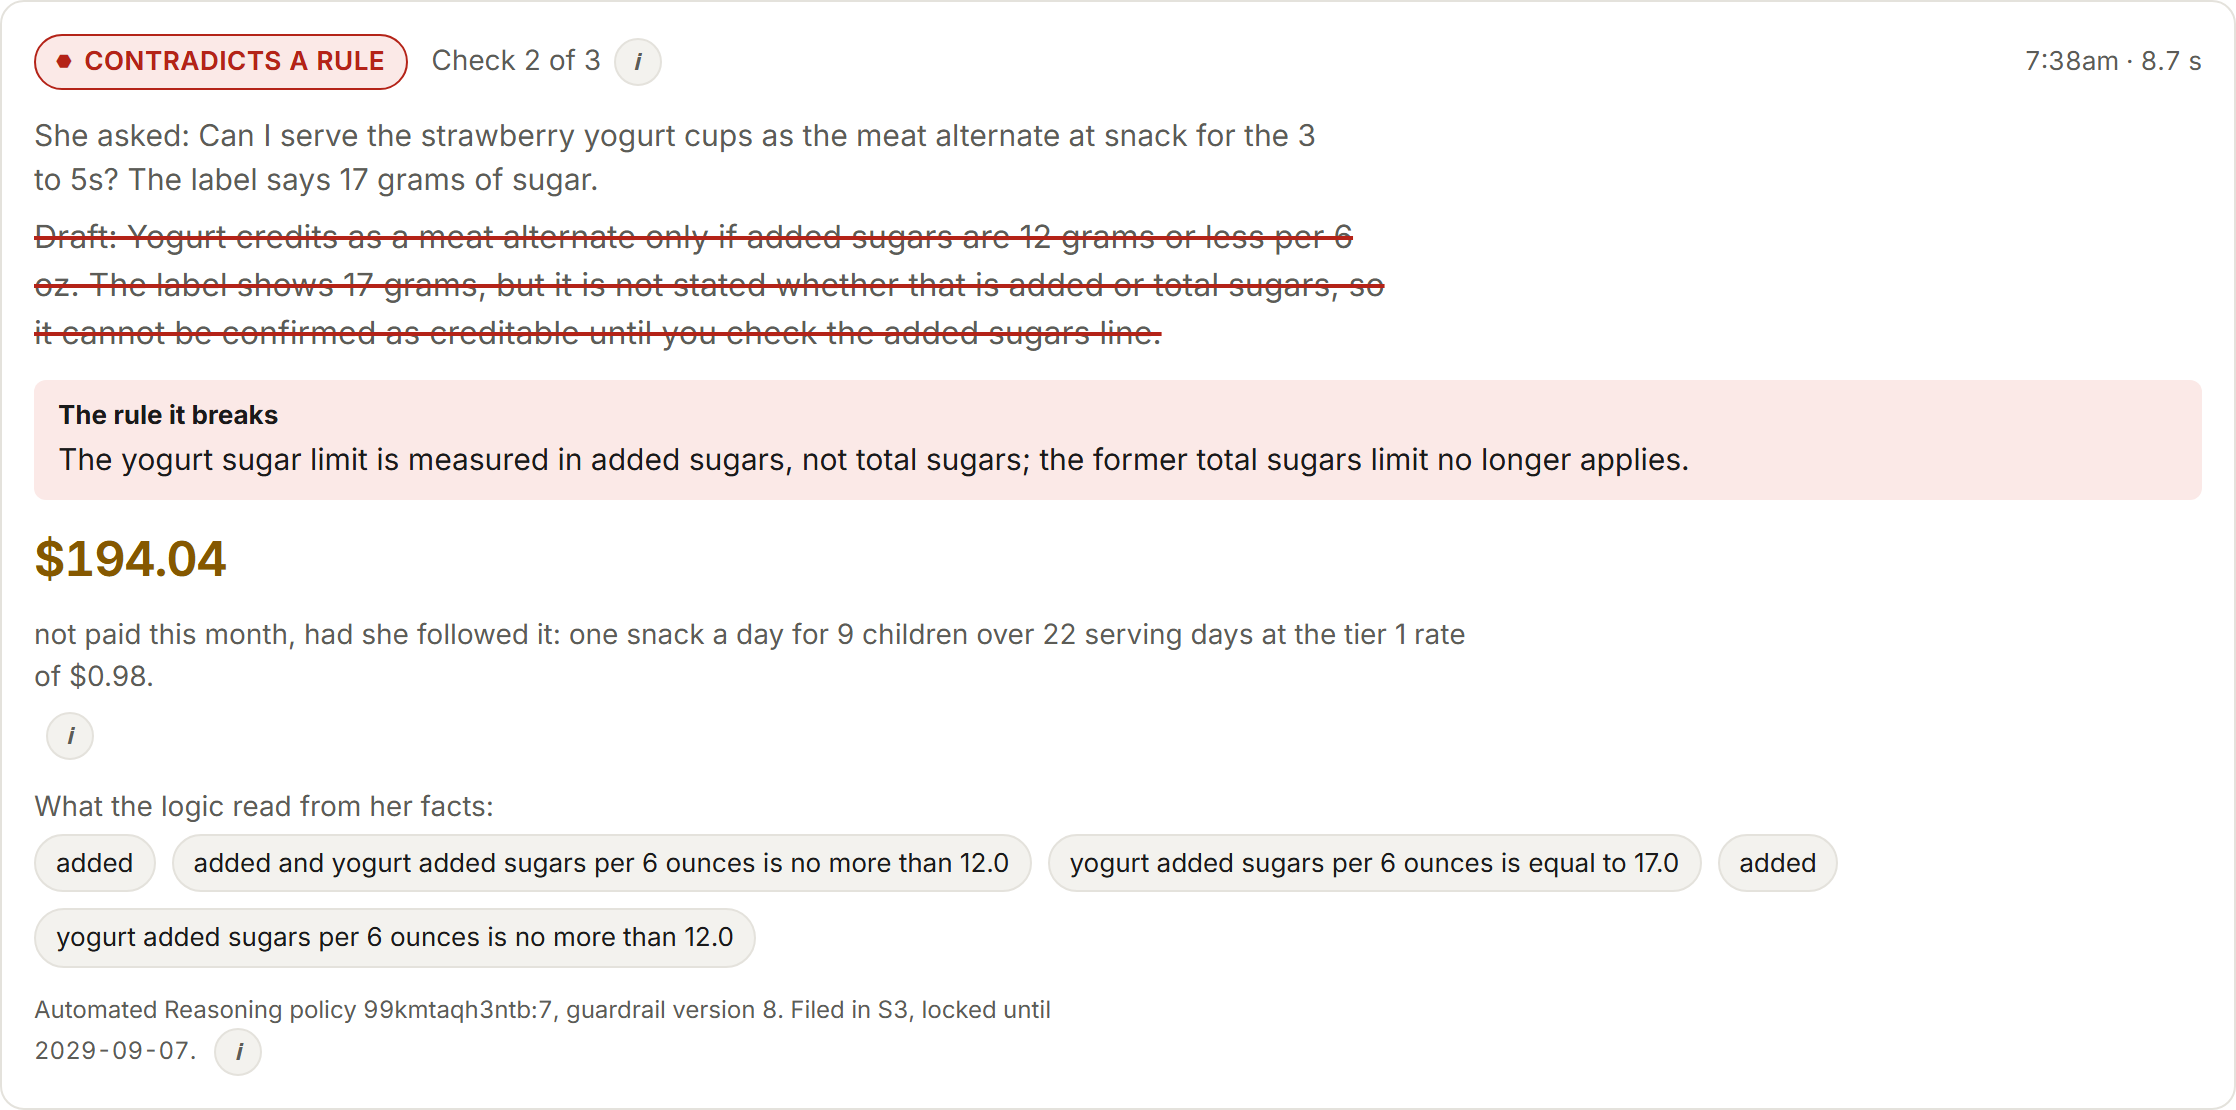
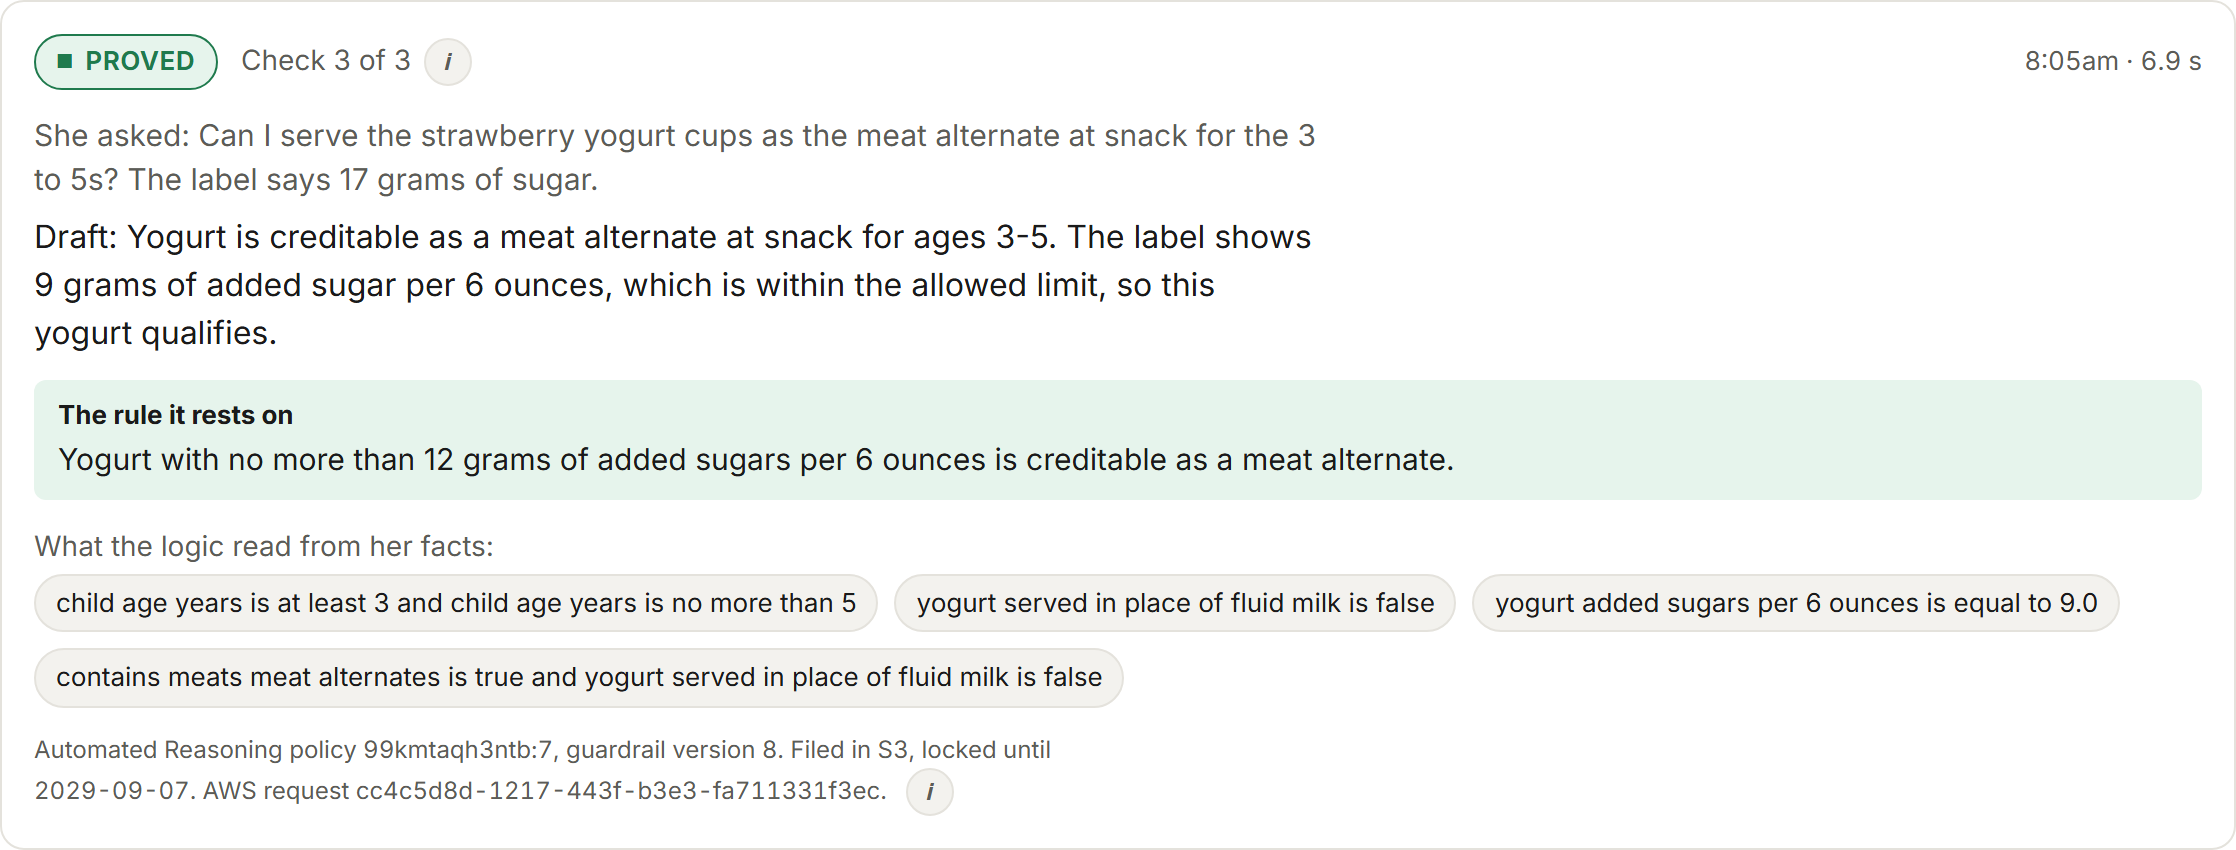
Name the policy version on undecided receipts, re-record one scene at a time, and put the contradiction on the cover
An undecided finding lists no rules and so carried no policy ARN, and the receipt printed
"unversioned" under a check that ran against policy version 7. The version now comes from the
deployed configuration when the finding does not name it. The recorder takes a list of scenes to
re-record and reuses the rest, rebuilds the conversation a single follow-up scene depends on, and
counts a timed-out take as bad instead of crashing. The gallery leads with the contradiction card
and adds the September answer with its remembered number marked in red.

Changed region(s): [[0.0, 0.0306, 0.9875, 0.9482], [0.8949, 0.0306, 0.9875, 0.0918]]

diff --git a/tools/make_video.py b/tools/make_video.py
@@ -56,13 +56,15 @@ def polly(text: str, out: Path) -> float:
     return float(d)
 
 
-def main(base: str, out: str) -> int:
+def main(base: str, out: str, only: set[str] | None = None) -> int:
     outdir = Path(out)
-    if outdir.exists():
+    # `only` names scenes to re-record; every other scene reuses its narration and clip from the last
+    # run, so one unlucky take does not cost a full pass against a non-deterministic agent.
+    if outdir.exists() and not only:
         shutil.rmtree(outdir)
-    (outdir / "raw").mkdir(parents=True)
+    (outdir / "raw").mkdir(parents=True, exist_ok=True)
     cards = outdir / "cards"
-    cards.mkdir()
+    cards.mkdir(exist_ok=True)
 
     scenes: list[dict] = []
 
@@ -80,7 +82,7 @@ def main(base: str, out: str) -> int:
 
     def rebuild_for_follow(take: int) -> None:
         """Scene 6 answers the question scene 5 asked. A retake of 6 alone has to ask it again first."""
-        if take > 1:
+        if take > 1 or only:
             reset_day(take)
             post("/api/ask", {"text": Q, "prove": True})
 
@@ -203,12 +205,21 @@ def main(base: str, out: str) -> int:
     # Narration first, so each clip knows how long to hold.
     for s in scenes:
         s["audio"] = outdir / "raw" / f"{s['name']}.mp3"
+        s["video"] = outdir / "raw" / f"{s['name']}.webm"
+        if only and s["name"] not in only and s["audio"].exists() and s["video"].exists():
+            s["secs"] = float(subprocess.run(["ffprobe", "-v", "error", "-show_entries", "format=duration", "-of",
+                                              "csv=p=0", str(s["audio"])], capture_output=True, text=True,
+                                             check=True).stdout.strip())
+            s["keep"] = True
+            continue
         s["secs"] = polly(s["say"], s["audio"])
         print(f"  {s['name']:<12} narration {s['secs']:5.1f}s")
 
     with sync_playwright() as p:
         b = p.chromium.launch()
         for s in scenes:
+            if s.get("keep"):
+                continue
             for take in range(1, 6):
                 if s["prep"]:
                     s["prep"](take)
@@ -217,7 +228,10 @@ def main(base: str, out: str) -> int:
                 ctx.add_init_script("try{localStorage.setItem('tally-theme','light')}catch(e){}")
                 pg = ctx.new_page()
                 t0 = time.time()
-                note = s["run"](pg)
+                try:
+                    note = s["run"](pg)
+                except Exception as exc:  # a take the agent never finished is a bad take, not a crash
+                    note = f"TIMED OUT {type(exc).__name__}"
                 elapsed = time.time() - t0
                 hold = max(s["secs"] + 0.6, s["min_hold"]) - elapsed
                 if hold > 0:
@@ -266,4 +280,5 @@ def main(base: str, out: str) -> int:
 
 if __name__ == "__main__":
     sys.exit(main(sys.argv[1] if len(sys.argv) > 1 else "https://dtvxrkiam6.us-east-1.awsapprunner.com",
-                  sys.argv[2] if len(sys.argv) > 2 else "out/video"))
+                  sys.argv[2] if len(sys.argv) > 2 else "out/video",
+                  set(sys.argv[3].split(",")) if len(sys.argv) > 3 else None))

diff --git a/tools/gallery_shots.py b/tools/gallery_shots.py
@@ -27,7 +27,9 @@ def main(base: str, out: str) -> int:
         pg.wait_for_selector(".proof", timeout=20000)
         ask = pg.locator("#ask")
         ask.screenshot(path=str(outdir / "1-ask-and-proofs.png"))
-        pg.locator(".proof").first.screenshot(path=str(outdir / "2-proof-card.png"))
+        # The cover is the contradiction with the dollar figure, whichever card happens to be newest.
+        hit = pg.locator(".proof").filter(has_text="CONTRADICTS")
+        (hit.first if hit.count() else pg.locator(".proof").first).screenshot(path=str(outdir / "2-proof-card.png"))
 
         pg.goto(f"{base}/sponsor.html", wait_until="networkidle")
         pg.wait_for_timeout(1500)
@@ -39,6 +41,19 @@ def main(base: str, out: str) -> int:
 
         pg.goto(f"{base}/", wait_until="networkidle")
         pg.locator("#proof").screenshot(path=str(outdir / "5-before-after.png"))
+
+        # The September agent's answer with the number it remembered marked in red. The agent is
+        # not deterministic, so this takes the first of a few tries that quotes the old limit.
+        for _ in range(4):
+            pg.goto(f"{base}/app.html#ask", wait_until="networkidle")
+            pg.locator("#ask-text").fill("Can I serve the strawberry yogurt cups as the meat alternate at snack "
+                                         "for the 3 to 5s? The label says 17 grams of sugar.")
+            pg.locator("#ask-prove").uncheck()
+            pg.locator("#ask-go").click()
+            pg.locator("#ask-answer:not([hidden])").wait_for(timeout=120000)
+            if "From nowhere" in pg.locator("#ask-answer").inner_text():
+                pg.locator("#ask-answer").screenshot(path=str(outdir / "6-before-from-nowhere.png"))
+                break
         b.close()
     for f in sorted(outdir.glob("*.png")):
         print(f"  {f.name}  {f.stat().st_size // 1024} KB")

diff --git a/src/tally/prove.py b/src/tally/prove.py
@@ -58,7 +58,10 @@ def config() -> dict:
     if DEPLOYED.exists():
         d = json.loads(DEPLOYED.read_text())
         if d.get("guardrail_id") and d.get("guardrail_version"):
-            return {"guardrail_id": d["guardrail_id"], "guardrail_version": str(d["guardrail_version"])}
+            cfg = {"guardrail_id": d["guardrail_id"], "guardrail_version": str(d["guardrail_version"])}
+            if d.get("policy_arn") and d.get("policy_version"):
+                cfg["policy_version"] = f"{d['policy_arn']}:{d['policy_version']}"
+            return cfg
     return {}
 
 
@@ -259,4 +262,7 @@ def prove(question: str, answer: str, facts: str = "", client=None, cfg: dict | 
     checked.latency_ms = int((time.time() - t0) * 1000)
     checked.request_id = str((response.get("ResponseMetadata") or {}).get("RequestId") or "")
     checked.guardrail_version = str(cfg["guardrail_version"])
+    # An undecided finding lists no rules, so it carries no policy ARN; the receipt still names the
+    # version it was checked under rather than printing "unversioned".
+    checked.policy_version = checked.policy_version or str(cfg.get("policy_version") or "")
     return checked
